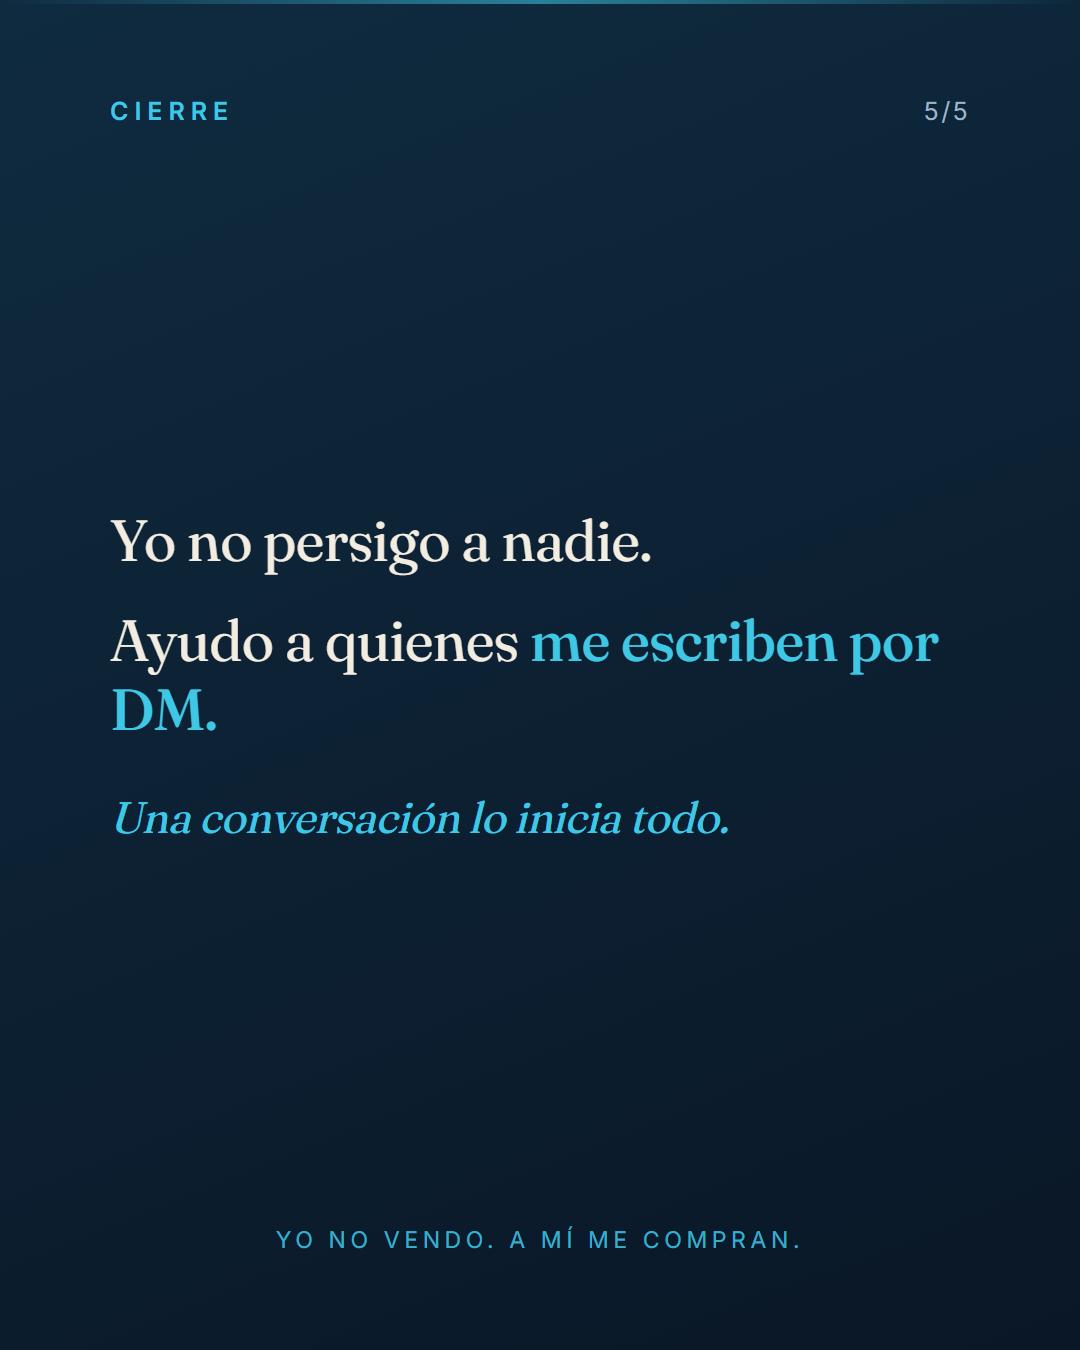
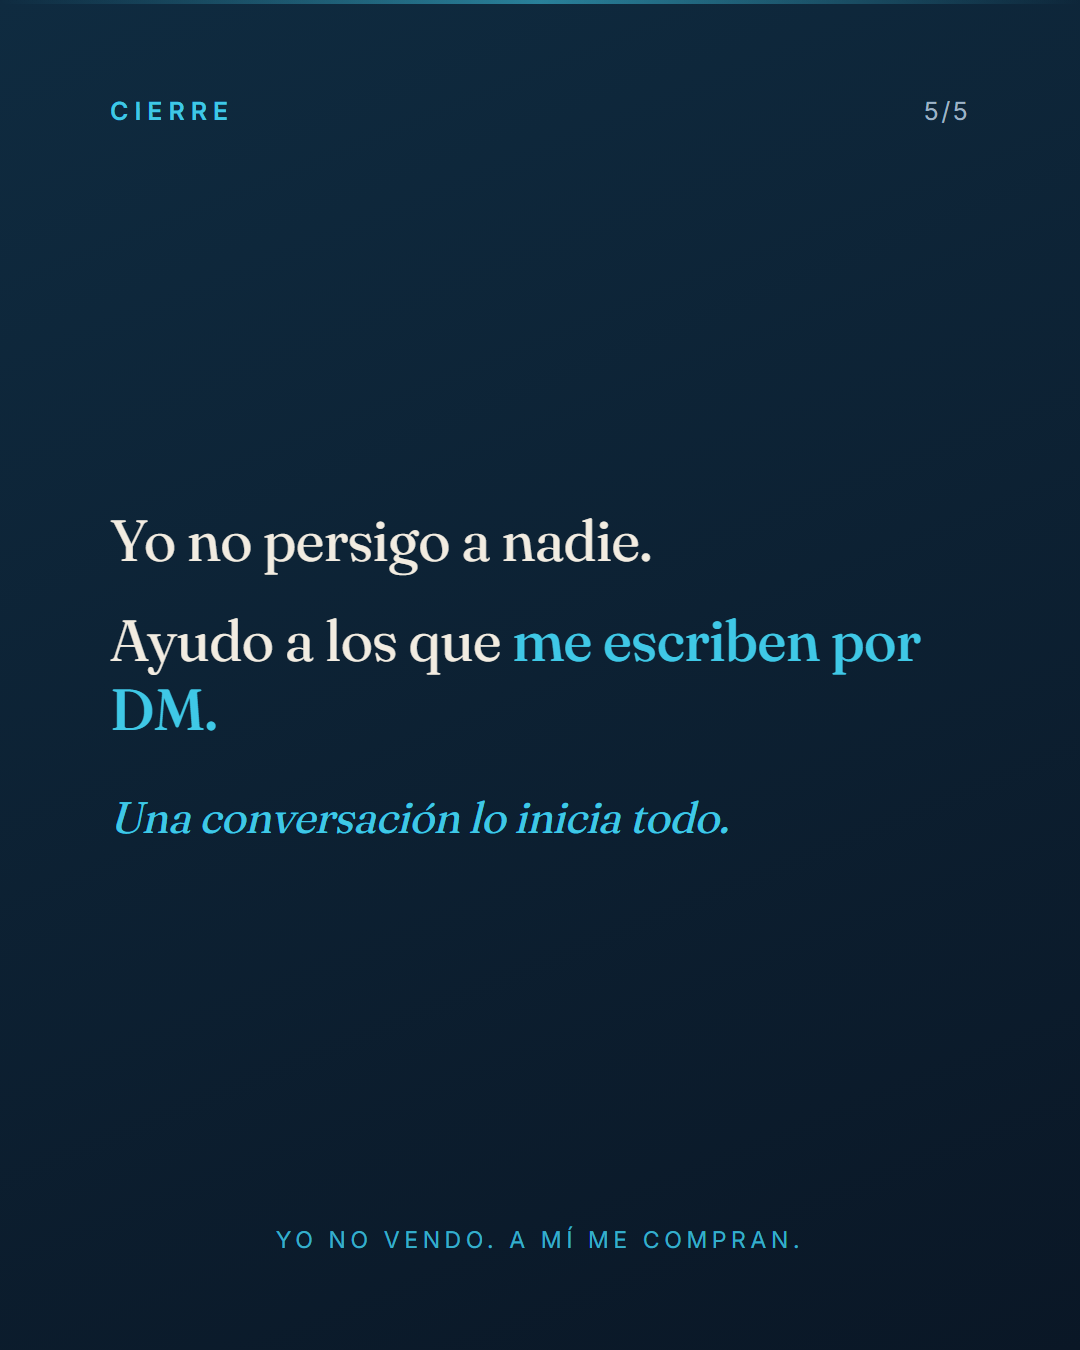
CTA final: Ayudo a los que me escriben por DM

Changed region(s): [[0.3056, 0.4356, 0.8861, 0.4978]]

diff --git a/build_post.js b/build_post.js
@@ -92,7 +92,7 @@ const slides = post.slides.map((s, i) => ({
 const cl = post.close || {};
 slides.push({
   kick: cl.kicker || 'Cierre', page: total, total, isCTA: true,
-  big: cl.big || 'Yo no persigo a nadie. Ayudo a quienes <strong>me escriben por DM.</strong>',
+  big: cl.big || 'Yo no persigo a nadie. Ayudo a los que <strong>me escriben por DM.</strong>',
   ctaLine: cl.line || 'Una conversación lo inicia todo.',
   ctaFoot: cl.foot || 'Yo no vendo. A mí me compran.'
 });
